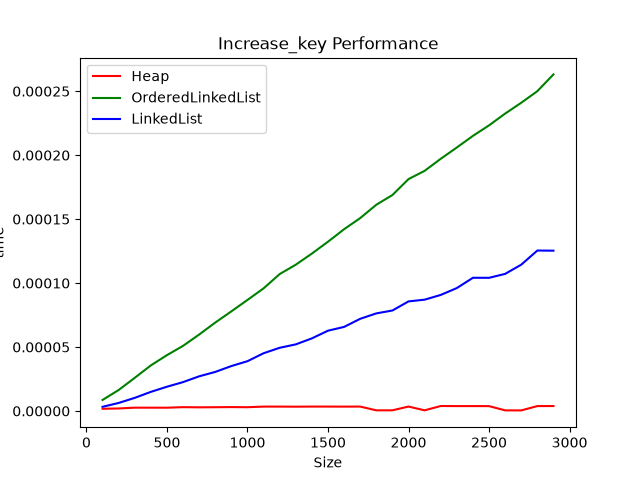
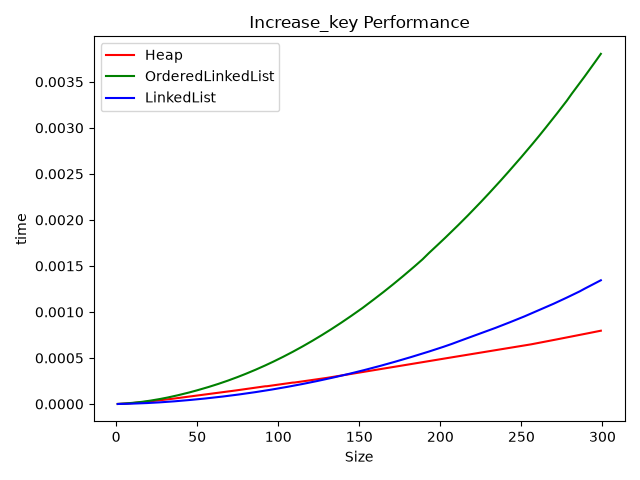
added more test cases

diff --git a/PicchioniEs1LabAlg.py b/PicchioniEs1LabAlg.py
@@ -316,6 +316,25 @@ class OrderedLinkedList:
                 node = node.get_next()
         print("error: no matching item to remove was found")
 
+    def remove_at_index(self, i):
+        node = self.head
+        previous = None
+        if node is None:
+            print("list is empty")
+            return
+        for _ in range(i):
+            if node.get_next() is None:
+                print("index out of range")
+                return
+            previous = node
+            node = node.get_next()
+        if previous is None:
+            self.head = node.get_next()
+        else:
+            previous.set_next(node.get_next())
+            if self.tail == node:
+                self.tail = previous
+
     def get_max(self):
         return self.head
 
@@ -327,18 +346,7 @@ class OrderedLinkedList:
         return max
 
     def increase_key(self, i, key):
-        node = self.head
-        if node is None:
-            print("list is empty")
-            return
-        for _ in range(i):
-            if node.get_next() is None:
-                print("index out of range")
-                return
-            node = node.get_next()
-        if node.get_data() > key:
-            return
-        self.remove(node.get_data())
+        self.remove_at_index(i)
         self.insert(key)
 
     def get_len(self):
@@ -384,12 +392,10 @@ def plot_graph(data_type, number_of_operation, time):
         label = "LinkedList"
         color = "b"
     plt.plot(number_of_operation, time, color, label=label)
-    print("finished testing for " + label)
+    print("-- finished testing for " + label)
 
 
-def measure_insert_time(
-    data_type, number_of_operation, elements, time, repeats, random_test, test_value
-):
+def measure_insert_time(data_type, number_of_operation, elements, time, repeats):
     for i in number_of_operation:
         best = inf
         for _ in range(repeats):
@@ -402,46 +408,42 @@ def measure_insert_time(
             for e in elements[:i]:
                 prio_queue.insert(e)
 
-            if random_test is True:
-                random_value = random.choice(range(test_value))
-            else:
-                random_value = test_value
-
+            new_value = elements[i]
             start = timer()
-            prio_queue.insert(random_value)
+            prio_queue.insert(new_value)
             end = timer()
             best = min(best, end - start)
-        time.append(best)
+        if len(time) == 0:
+            time.append(best)
+        else:
+            time.append(best + time[-1])
     plot_graph(data_type, number_of_operation, time)
 
 
-def insert_test(test_type):
-    number_of_elements = 3000
-    step = 100
+def insert_test(test_type, types_to_test):
+    number_of_elements = 300
+    step = 1
     number_of_operation = range(step, number_of_elements, step)
-    interval_end = 3000
+    interval_end = 300
     number_of_repeats = 10
-    inputs = random.choices(range(interval_end), k=number_of_elements)
 
-    # Testing insertion of random value
-    test_value = interval_end
-    random_test = True
-    test_type_string = "random"
     # Testing insertion of highest value
     if test_type == 1:
-        random_test = False
         test_type_string = "highest"
+        inputs = range(interval_end)
         print("## Testing insertion of highest value")
     # Testing insertion of lowest value
     elif test_type == 2:
-        random_test = False
-        test_value = 1
         test_type_string = "lowest"
+        inputs = range(interval_end, 0, -1)
         print("## Testing insertion of lowest value")
     else:
+        # Testing insertion of random value
+        test_type_string = "random"
+        inputs = random.choices(range(interval_end), k=number_of_elements)
         print("## Testing insertion of a random value")
 
-    for i in range(3):
+    for i in types_to_test:
         time = []
         measure_insert_time(
             i,
@@ -449,23 +451,24 @@ def insert_test(test_type):
             inputs,
             time,
             number_of_repeats,
-            random_test,
-            test_value,
         )
 
     plt.title("Insertion Performance, " + test_type_string + " value")
+    if len(types_to_test) < 3:
+        test_type_string = "no_ordered"
     plt.xlabel("Size")
     plt.ylabel("time")
     plt.legend(loc="upper left")
+    plt.tight_layout()
     plt.savefig("insertion_performance_" + test_type_string + ".png")
     plt.clf()
 
 
 def remove_max_test(data_type):
-    number_of_elements = 3000
-    step = 100
+    number_of_elements = 300
+    step = 1
     number_of_operation = range(step, number_of_elements, step)
-    interval_end = 3000
+    interval_end = 300
     number_of_repeats = 100
     inputs = random.choices(range(interval_end), k=number_of_elements)
 
@@ -486,14 +489,17 @@ def remove_max_test(data_type):
             prio_queue.remove_max()
             end = timer()
             best = min(best, end - start)
-        time.append(best)
+        if len(time) == 0:
+            time.append(best)
+        else:
+            time.append(best + time[-1])
 
     plot_graph(data_type, number_of_operation, time)
 
 
 def increase_key_test(data_type):
-    number_of_elements = 3000
-    step = 100
+    number_of_elements = 300
+    step = 1
     number_of_operation = range(step, number_of_elements, step)
     interval_end = 3000
     number_of_repeats = 100
@@ -523,27 +529,48 @@ def increase_key_test(data_type):
             prio_queue.increase_key(random_index, random_value)
             end = timer()
             best = min(best, end - start)
-        time.append(best)
+        if len(time) == 0:
+            time.append(best)
+        else:
+            time.append(best + time[-1])
 
     plot_graph(data_type, number_of_operation, time)
 
 
 # also do a graph for highest/lowest between Heap and LinkedList
 print("# Testing Insertion cases")
+types_to_test = range(3)
 for i in range(3):
-    insert_test(i)
+    insert_test(i, types_to_test)
 
-# test if remove_max works correctly
+print("# Testing Insertion cases, only Heap and LinkedList")
+types_to_test = [0, 2]
+insert_test(0, types_to_test)
+
 print("# Testing Remove_Max")
 for i in range(3):
     remove_max_test(i)
 
 # also make a graph for only heap and OrderedLinkedList
-plt.title("# Remove_Max Performance")
+plt.title("Remove_Max Performance")
 plt.xlabel("Size")
 plt.ylabel("time")
 plt.legend(loc="upper left")
+plt.tight_layout()
 plt.savefig("remove_max_performance.png")
+plt.clf()
+
+print("# Testing Remove_Max, only Heap and OrderedLinkedList")
+for i in range(2):
+    remove_max_test(i)
+
+# also make a graph for only heap and OrderedLinkedList
+plt.title("Remove_Max Performance")
+plt.xlabel("Size")
+plt.ylabel("time")
+plt.legend(loc="upper left")
+plt.tight_layout()
+plt.savefig("remove_max_performance_no_linked.png")
 plt.clf()
 
 print("# Testing Increase_key")
@@ -554,6 +581,7 @@ plt.title("Increase_key Performance")
 plt.xlabel("Size")
 plt.ylabel("time")
 plt.legend(loc="upper left")
+plt.tight_layout()
 plt.savefig("increase_key_performance.png")
 plt.clf()
 
